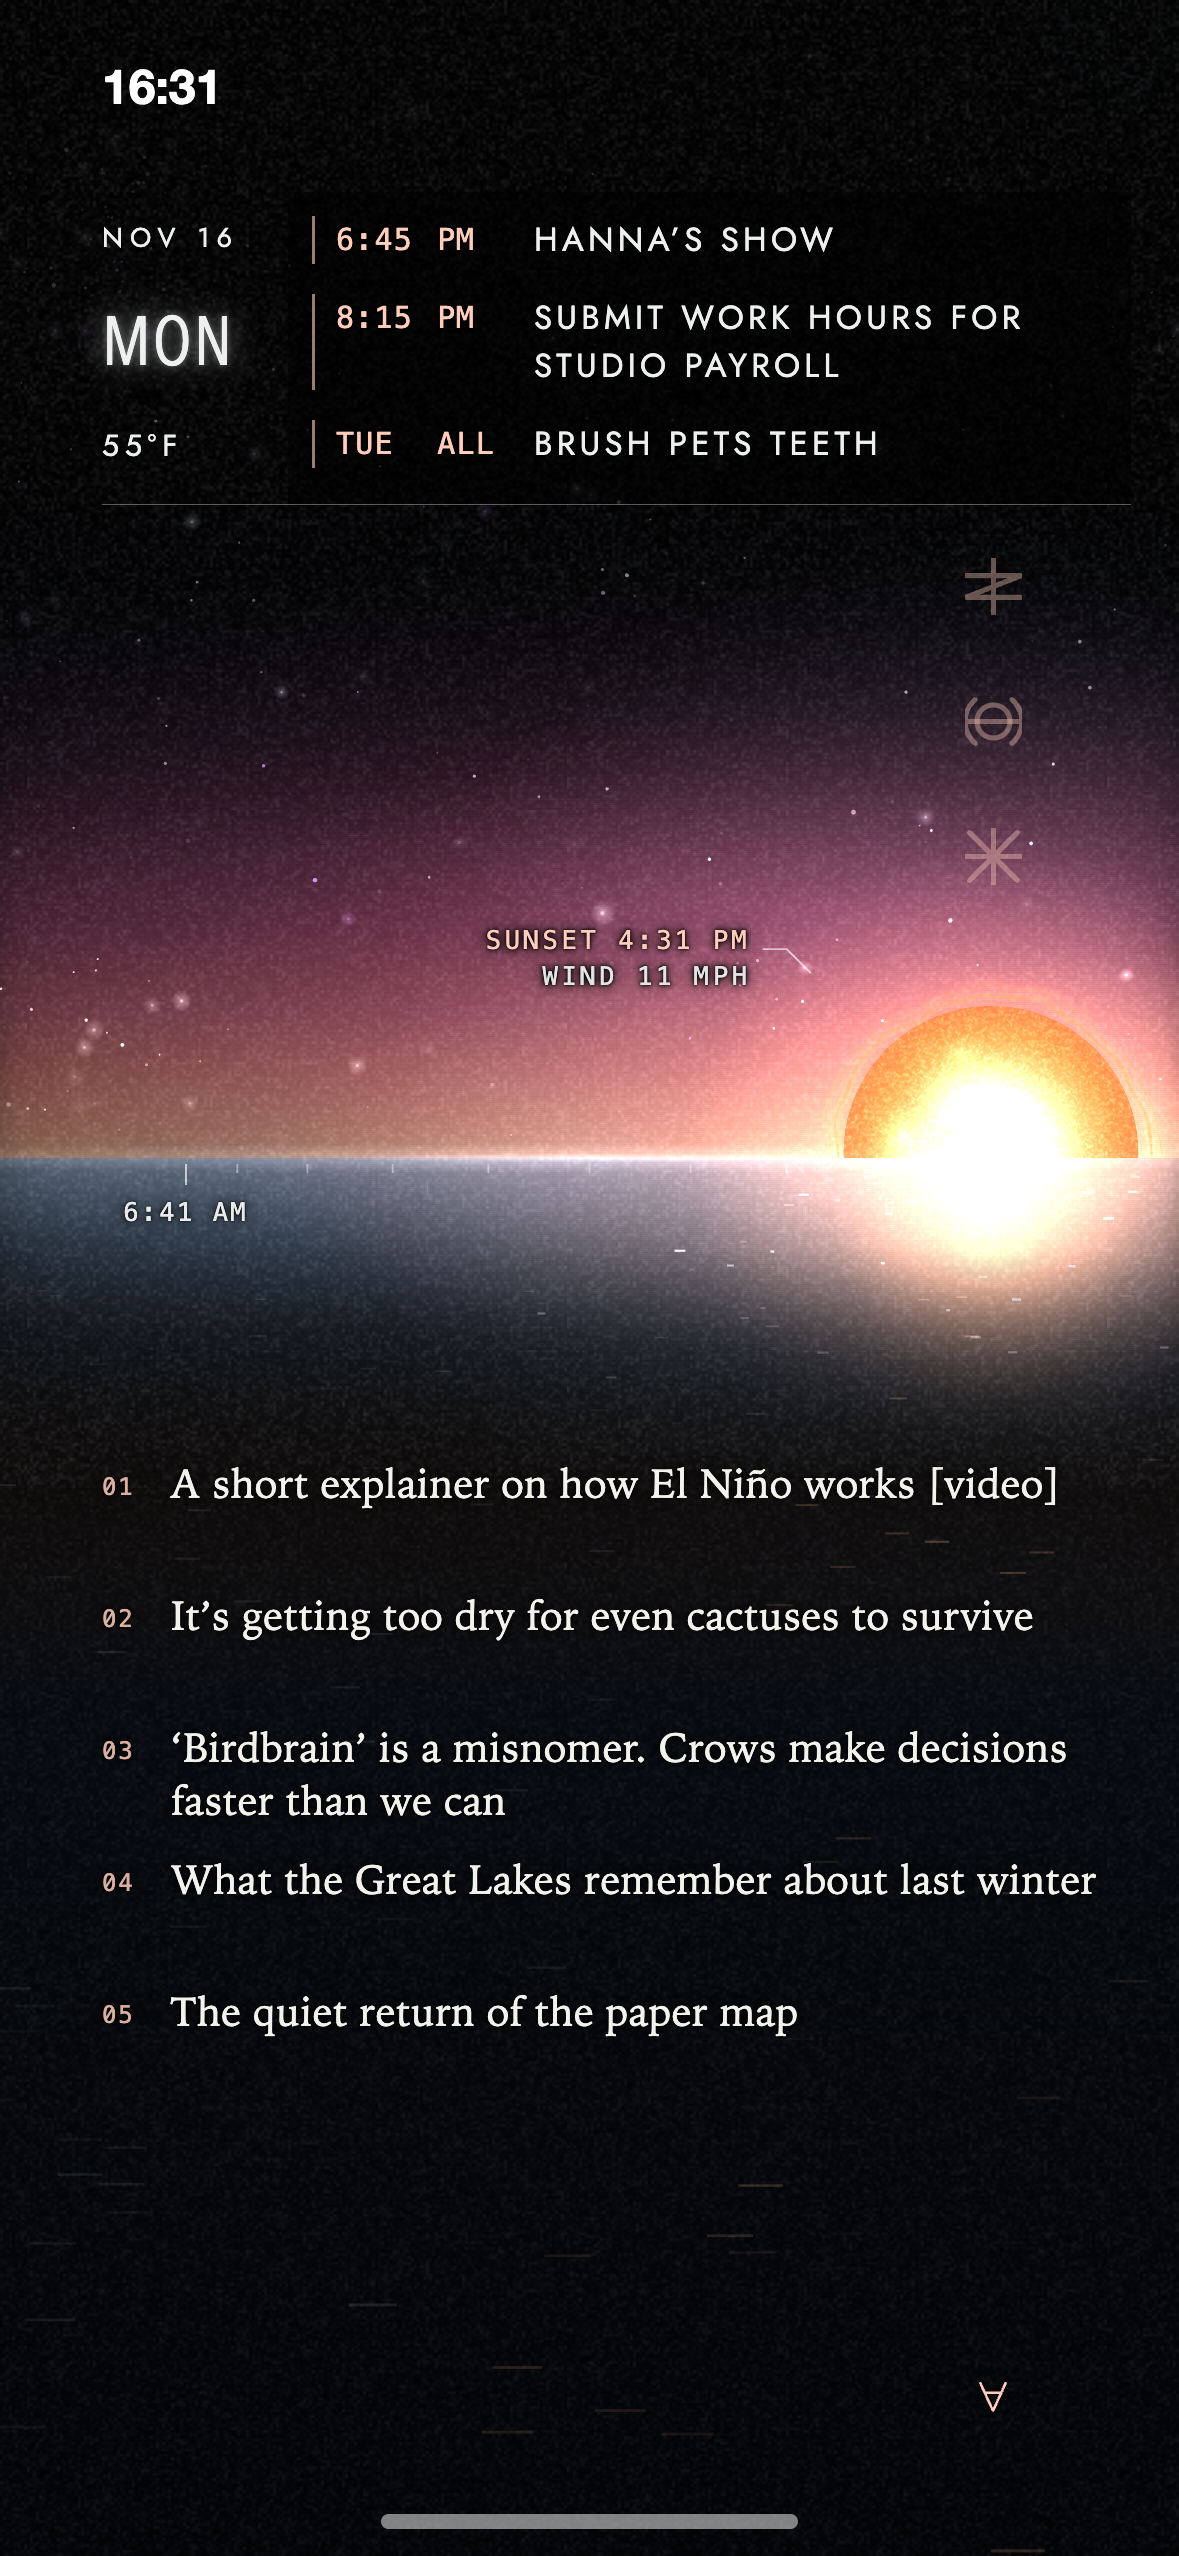
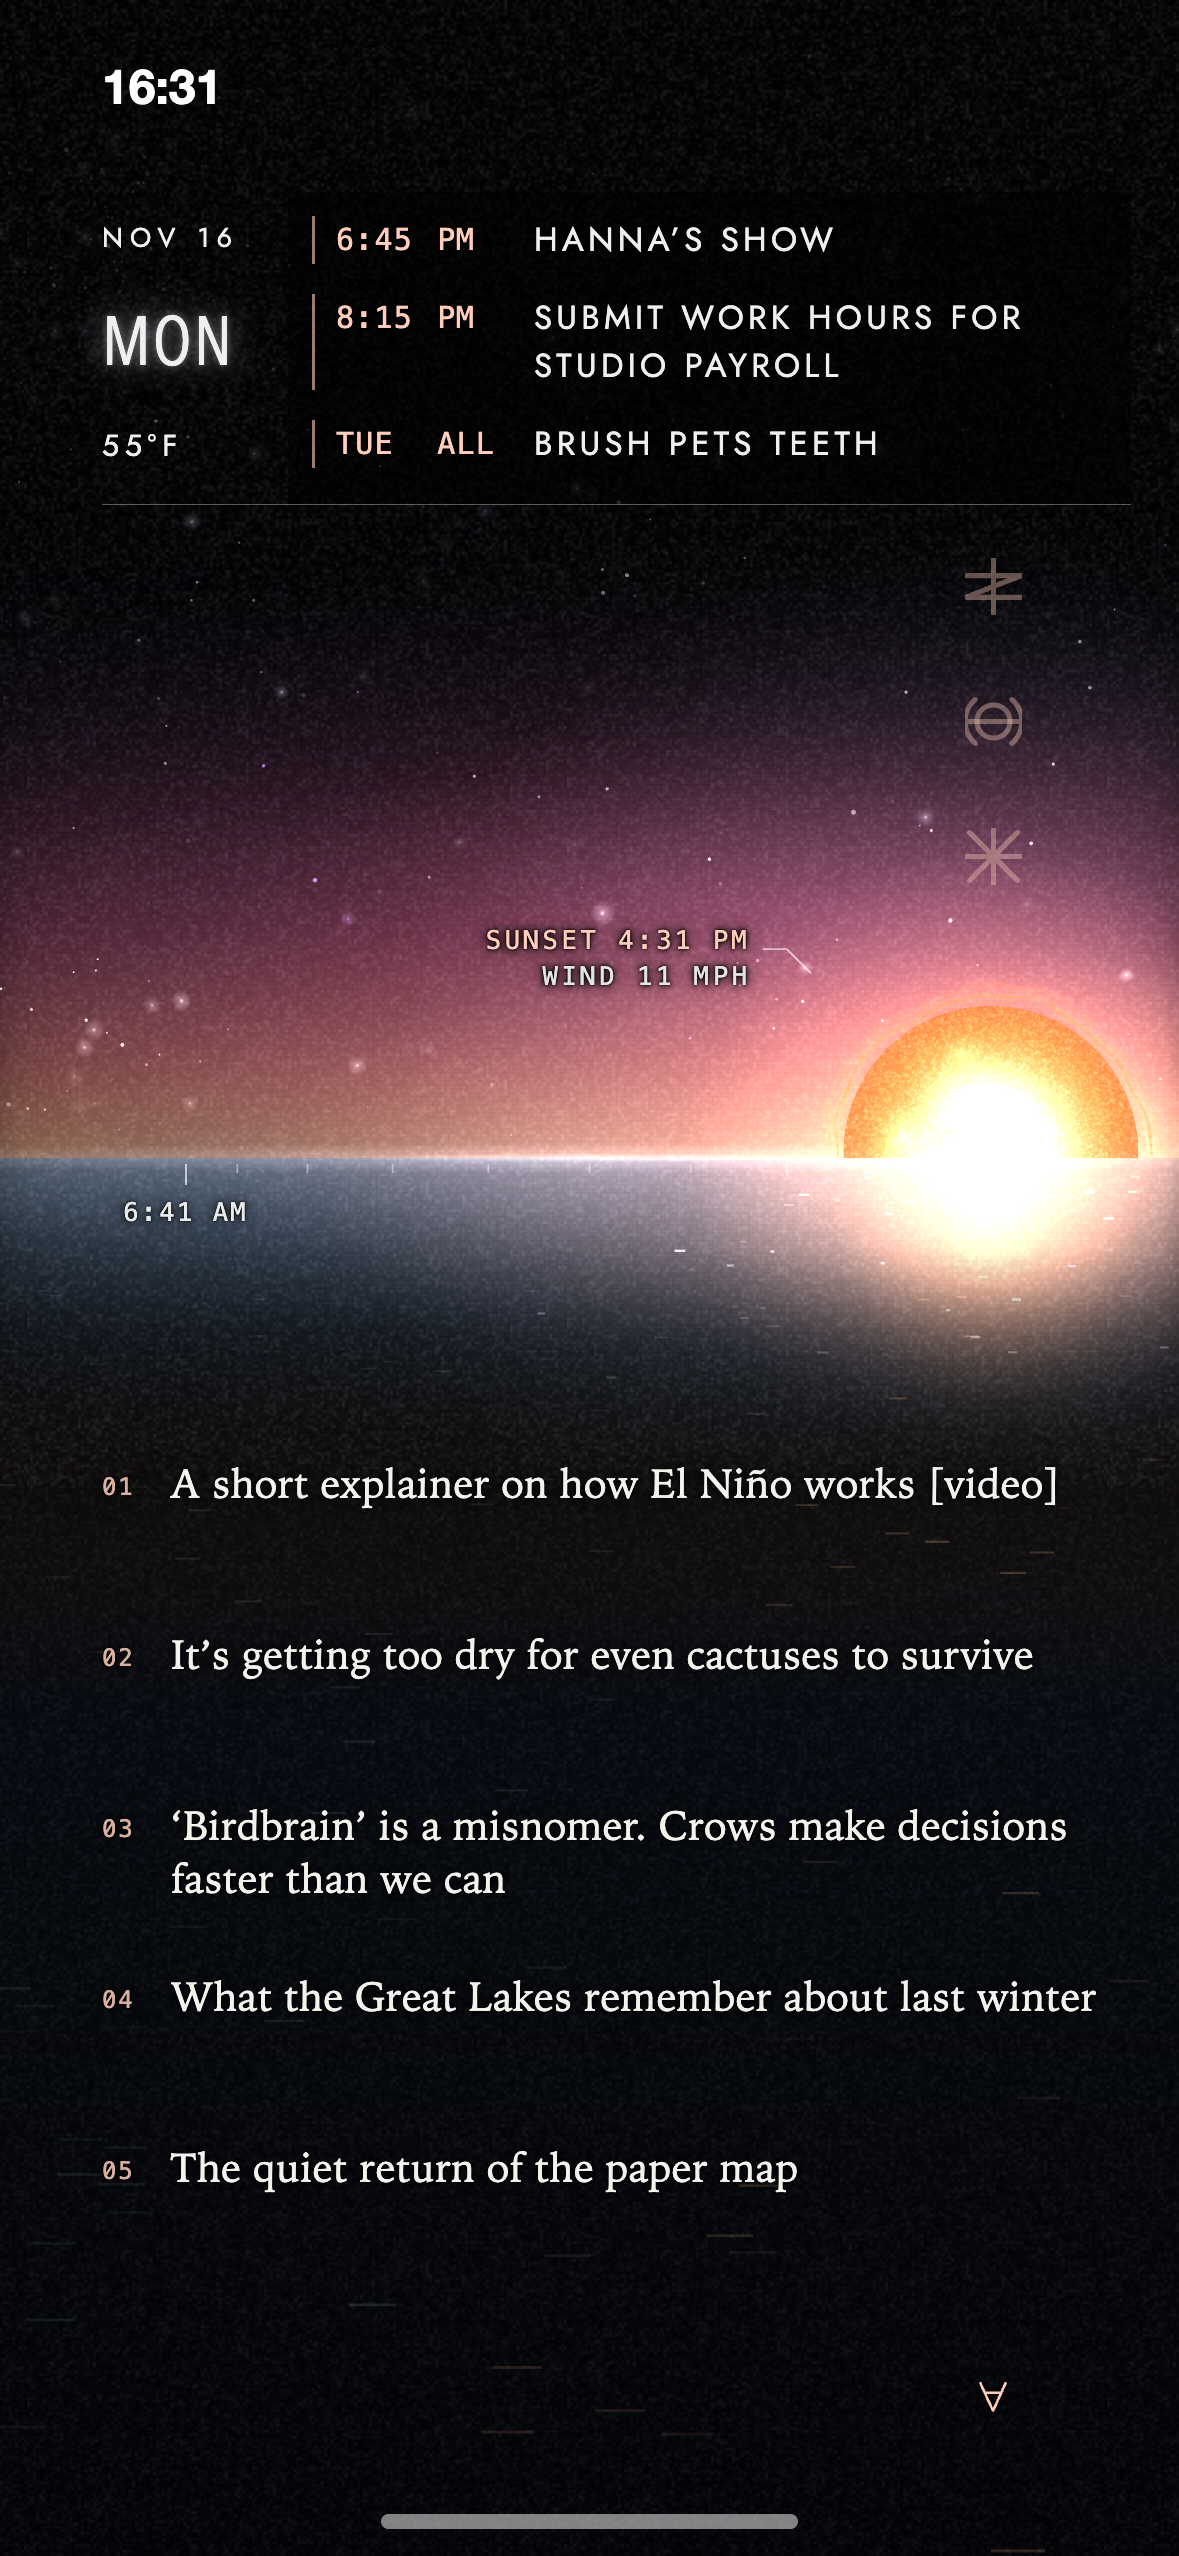
[#140] design-ideas/v11-artemis: more space between the article titles

diff --git a/design-ideas/v11-artemis/index.html b/design-ideas/v11-artemis/index.html
@@ -61,7 +61,7 @@
   body.nobtn .col, body.nobtn .more { display: none; }   /* ?nobtn: a frame without the controls */
 
   .feed { left: 34px; top: 486px; width: 332px; margin: 0; padding: 0; list-style: none; font-size: 9.5px; letter-spacing: .2em; line-height: 14.5px; counter-reset: n; }
-  .feed li { height: 44px; text-shadow: 0 0 6px rgba(0,0,0,.9), 0 0 2px rgba(0,0,0,.7); display: grid; grid-template-columns: 23px 1fr; align-items: start; counter-increment: n; }
+  .feed li { height: 57px; text-shadow: 0 0 6px rgba(0,0,0,.9), 0 0 2px rgba(0,0,0,.7); display: grid; grid-template-columns: 23px 1fr; align-items: start; counter-increment: n; }
   /* a small number before each title (01, 02, …), like a bullet, in the ink colour */
   .feed li::before { content: counter(n, decimal-leading-zero); font-family: ui-monospace, "SF Mono", Menlo, monospace; font-size: 8px; line-height: 17.5px; letter-spacing: .08em; color: rgba(var(--amber), .85); padding-top: 1px; }
   /* article titles: a humanist serif in sentence case (Iowan Old Style, then Charter; both ship with iOS and macOS) */

diff --git a/design-ideas/v11-artemis/README.md b/design-ideas/v11-artemis/README.md
@@ -17,7 +17,7 @@ Open `index.html`. Same address switches as v8: `?state=<id>`, `&bare`, `&still`
 
 - **`∀` is in the lower right corner** moved from the lower left at the user's request, and centred on x 331 so it stands straight under the column of three buttons.
 
-- **Five article titles** instead of seven, at the user's request. The list still starts at y 486 and `∀` stays at y 794, so there is open sea between them.
+- **Five article titles** instead of seven, at the user's request. They are spaced 57 points apart (44 before), which fills the room down to `∀` at y 794; the list still starts at y 486.
 
 Kept from v8: the full-screen sky and sea, the sun and moon as light on a centred path with bracket and tag, the rise and set marks on the horizon, one ink colour per screen, the numbered serif titles, no stars at mid-day.
 

diff --git a/tasks/0140-design-ideas-v11-artemis-more-space-betw.md b/tasks/0140-design-ideas-v11-artemis-more-space-betw.md
@@ -1,0 +1,28 @@
+---
+id: 140
+title: design-ideas/v11-artemis: more space between the article titles
+status: review
+owner: lead
+depends_on: []
+created: 2026-11-19T02:54:57Z
+updated: 2026-11-19T02:55:17Z
+---
+
+## Goal
+
+
+## Acceptance criteria
+
+
+## Relevant files
+
+
+## What's been tried
+
+
+## Log
+
+- 2026-11-19T02:54:57Z [lead] created (todo)
+- 2026-11-19T02:54:57Z [lead] status: todo → in-progress — claimed by lead
+- 2026-11-19T02:55:16Z [lead] Title rows 44 -> 57pt. 12 stills re-rendered; lower half of mid-day viewed; README and thumbs updated.
+- 2026-11-19T02:55:17Z [lead] status: in-progress → review
